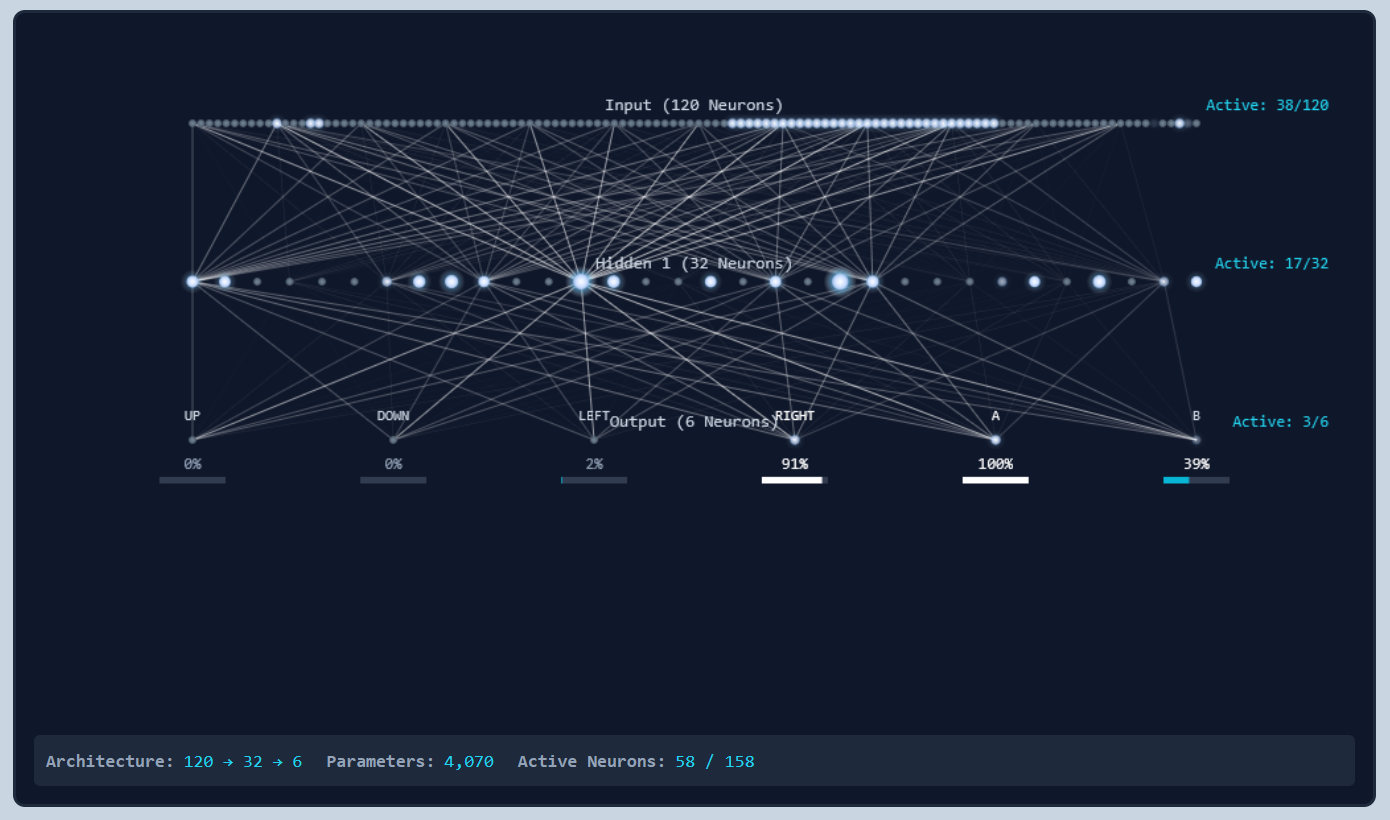
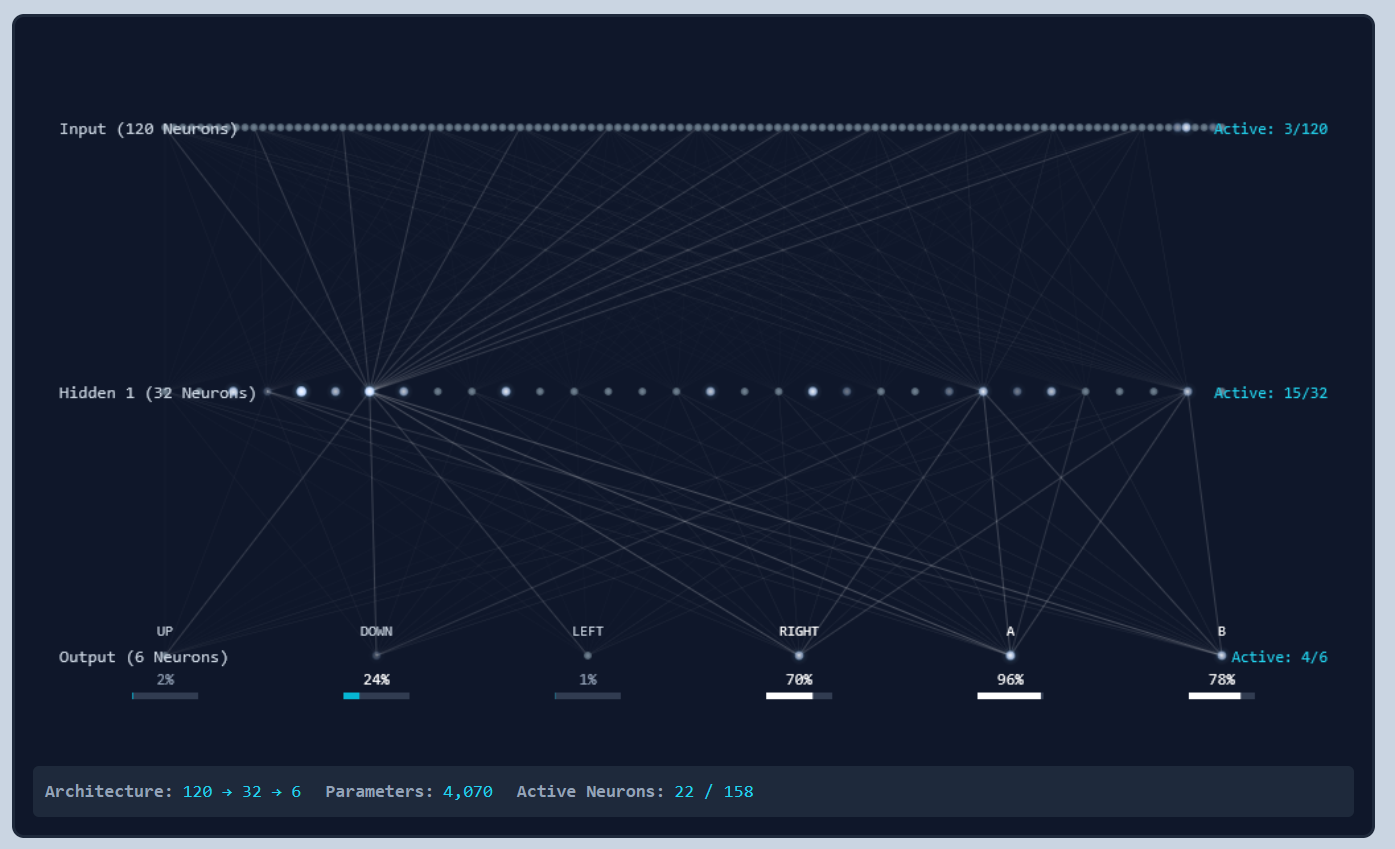
Seeing neurons

diff --git a/src/lib/components/NeuralNetworkViz.svelte b/src/lib/components/NeuralNetworkViz.svelte
@@ -17,16 +17,22 @@
 
 	// Layout constants - HORIZONTAL LAYOUT (rows not columns)
 	const CANVAS_WIDTH = 1000;
-	const LAYER_SPACING = 120; // Vertical spacing between rows
 	const NODE_RADIUS = 3;
 	const MAX_NODES_PER_LAYER = 150; // Show all nodes
-	const NEURONS_PER_PILL = 5; // Group neurons into pills (hidden layers only)
+	const NEURONS_PER_PILL = 5; // Group neurons into pills for performance
 
-	// Dynamic height based on number of layers (fluid layout)
+	// Dynamic layout calculations
 	const canvasHeight = $derived(
 		vizData?.layer_sizes?.length
-			? 70 + (vizData.layer_sizes.length * LAYER_SPACING) + 90 // Extra space for output labels/bars
-			: 400 // Default height for empty state
+			? Math.max(400, vizData.layer_sizes.length * 180) // Scale with number of layers
+			: 400
+	);
+
+	// Dynamic spacing based on number of layers
+	const layerSpacing = $derived(
+		vizData?.layer_sizes?.length
+			? (canvasHeight - 140) / Math.max(1, vizData.layer_sizes.length - 1) // Distribute evenly
+			: 120
 	);
 
 	// Color scheme
@@ -54,7 +60,7 @@
 
 	function startAnimation() {
 		function animate() {
-			pulsePhase = (pulsePhase + 0.01) % (Math.PI * 2); // Slower pulse
+			pulsePhase = (pulsePhase + 0.01) % (Math.PI * 2);
 			drawNetwork();
 			animationFrameId = requestAnimationFrame(animate);
 		}
@@ -74,42 +80,27 @@
 		const layers = vizData.layer_sizes;
 		const activations = vizData.activations || [];
 
-		// Debug: log activation data structure
-		if (activations.length > 0 && !window._loggedActivations) {
-			const outputAct = activations[layers.length - 1];
-			console.log('🔍 Activation data:', {
-				hasActivations: activations.length > 0,
-				numLayers: layers.length,
-				numActivations: activations.length,
-				outputLayerActivation: outputAct,
-				outputHasValues: !!outputAct?.values,
-				outputValuesType: typeof outputAct?.values,
-				outputValuesIsArray: Array.isArray(outputAct?.values),
-				outputValuesLength: outputAct?.values?.length,
-				outputValues: outputAct?.values,
-				firstValue: outputAct?.values?.[0],
-				allActivations: activations
-			});
-			window._loggedActivations = true;
-		}
+		// Calculate dynamic vertical spacing
+		const topPadding = 70;
+		const bottomPadding = 70;
+		const availableHeight = canvasHeight - topPadding - bottomPadding;
+		const spacing = layers.length > 1 ? availableHeight / (layers.length - 1) : 0;
 
-		// Calculate node positions for each layer - HORIZONTAL LAYOUT
+		// Calculate node positions for each layer - FLUID HORIZONTAL LAYOUT
 		const layerPositions = layers.map((size, layerIdx) => {
-			const y = 70 + layerIdx * LAYER_SPACING; // Vertical position (row)
+			// Dynamic vertical position - evenly distributed
+			const y = topPadding + (layerIdx * spacing);
 
-			// Determine if this is a hidden layer (for pill grouping)
-			const isHidden = layerIdx > 0 && layerIdx < layers.length - 1;
-
-			// Only use pills if hidden layer has more than MAX_NODES_PER_LAYER neurons
-			const usePills = isHidden && size > MAX_NODES_PER_LAYER;
+			// Use pills for any layer with more than 100 neurons (for performance)
+			const PILL_THRESHOLD = 100;
+			const usePills = size > PILL_THRESHOLD;
 			const pillSize = usePills ? NEURONS_PER_PILL : 1;
 			const numPills = Math.ceil(size / pillSize);
 			const displaySize = Math.min(numPills, MAX_NODES_PER_LAYER);
 
-			// Calculate horizontal spacing to fit all nodes/pills with padding
-			const paddingX = 120; // More space for labels
-			const paddingRight = 120; // More space for active count
-			const availableWidth = CANVAS_WIDTH - paddingX - paddingRight;
+			// Dynamic horizontal spacing - use 80% of canvas width
+			const paddingX = CANVAS_WIDTH * 0.1; // 10% padding on each side
+			const availableWidth = CANVAS_WIDTH * 0.8; // 80% usable width
 			const nodeSpacing = displaySize > 1 ? availableWidth / (displaySize - 1) : 0;
 			const startX = paddingX;
 
@@ -141,19 +132,6 @@
 					} else {
 						// Regular neuron activation
 						activation = activations[layerIdx]?.values?.[actualIdx] || 0;
-					}
-
-					// Debug output layer node creation
-					if (!window._loggedNodeCreation && layerIdx === layers.length - 1 && nodeIdx < 6) {
-						console.log(`🔍 Creating output node ${nodeIdx}:`, {
-							layerIdx,
-							nodeIdx,
-							actualIdx,
-							hasActivations: !!activations[layerIdx],
-							activationValue: activation,
-							valuesArray: activations[layerIdx]?.values
-						});
-						if (nodeIdx === 5) window._loggedNodeCreation = true;
 					}
 
 					return {
@@ -219,16 +197,16 @@
 				const activation = node.activation;
 				const isActive = activation > 0.1;
 
-				// Draw pills for hidden layers, circles for input/output
+				// Draw pills for layers with >100 neurons, circles otherwise
 				if (layer.usePills) {
 					// Pill dimensions
-					const pillWidth = 14; // Wider pills
+					const pillWidth = 14;
 					const pillHeight = NODE_RADIUS * 2;
 					const pulse = Math.sin(pulsePhase) * 0.5;
 					const height = isActive
 						? pillHeight + pulse + (activation * 0.5)
 						: pillHeight;
-					const cornerRadius = height / 2; // Fully rounded ends
+					const cornerRadius = height / 2;
 
 					if (isActive) {
 						// Outer glow for active pills
@@ -275,7 +253,7 @@
 					);
 					ctx.fill();
 				} else {
-					// Regular circular nodes for input/output layers
+					// Regular circular nodes for layers with <=100 neurons
 					const baseRadius = NODE_RADIUS;
 					const pulse = Math.sin(pulsePhase) * 0.5;
 					const radius = isActive
@@ -325,7 +303,7 @@
 				}
 			});
 
-			// Layer labels - centered above each row
+			// Layer labels - positioned dynamically above each row
 			ctx.fillStyle = COLORS.text;
 			ctx.font = '13px monospace';
 			ctx.textAlign = 'center';
@@ -333,7 +311,7 @@
 			const layerNames = ['Input', ...Array(layers.length - 2).fill(0).map((_, i) => `Hidden ${i + 1}`), 'Output'];
 			const label = layerNames[layerIdx];
 
-			// Show pill count for hidden layers, node count otherwise
+			// Show pill count for layers using pills, node count otherwise
 			let nodeCount;
 			if (layer.usePills) {
 				const numPills = Math.ceil(layer.size / layer.pillSize);
@@ -346,19 +324,20 @@
 					: `${layer.size} Neurons`;
 			}
 
-			// Draw label centered at top of canvas, above the layer row
-			ctx.fillText(`${label} (${nodeCount})`, CANVAS_WIDTH / 2, layer.y - 10);
+			// Draw label centered horizontally, above the layer row
+			const labelY = layer.y - 15; // Positioned above nodes
+			ctx.fillText(`${label} (${nodeCount})`, CANVAS_WIDTH / 2, labelY);
 
-			// Show activation stats if available - on the right side
+			// Show activation stats if available - on the right side, aligned with label
 			if (activations[layerIdx]) {
 				const act = activations[layerIdx];
 				ctx.textAlign = 'right';
 				ctx.font = '12px monospace';
-				ctx.fillStyle = '#22d3ee'; // Bright cyan for visibility
+				ctx.fillStyle = '#22d3ee';
 				ctx.fillText(
 					`Active: ${act.active_count}/${layer.size}`,
 					CANVAS_WIDTH - 20,
-					layer.y - 10
+					labelY
 				);
 			}
 		});
@@ -373,41 +352,9 @@
 
 			// Only show if output layer has 6 nodes (button output)
 			if (outputLayer.size === 6) {
-				// Debug output layer activations once
-				if (!window._loggedOutputActivations && activations.length > 0) {
-					console.log('🎮 Output layer activations:', {
-						layerIdx: layers.length - 1,
-						nodes: outputLayer.nodes.map((n, i) => ({
-							button: buttons[i],
-							activation: n.activation,
-							actualIdx: n.actualIdx
-						})),
-						rawActivationData: activations[layers.length - 1]
-					});
-					window._loggedOutputActivations = true;
-				}
-
 				outputLayer.nodes.forEach((node, idx) => {
 					if (idx < buttons.length) {
 						const activation = node.activation || 0;
-
-						// Debug log ALL button activation values
-						if (!window._loggedButtonActivation) {
-							console.log('🔍 Button activation debug:', {
-								buttonIndex: idx,
-								button: buttons[idx],
-								nodeActivation: node.activation,
-								actualIdx: node.actualIdx,
-								outputLayerIdx: layers.length - 1,
-								hasActivations: !!activations[layers.length - 1],
-								activationObject: activations[layers.length - 1],
-								allValues: activations[layers.length - 1]?.values,
-								valueAtIndex: activations[layers.length - 1]?.values?.[idx]
-							});
-							if (idx === buttons.length - 1) {
-								window._loggedButtonActivation = true;
-							}
-						}
 
 						// Button label above node
 						ctx.fillStyle = activation > 0.5 ? '#ffffff' : COLORS.text;

diff --git a/static/python/ml/rl/agent.py b/static/python/ml/rl/agent.py
@@ -17,7 +17,7 @@ from lib.nes.game_controller import GameController
 from lib.neural.neural_controller import SimpleNeuralController, NEATController, ConvNeuralController, ActionDecoder
 
 # Visualization update frequency (every N decisions)
-VIZ_UPDATE_FREQUENCY = 3
+VIZ_UPDATE_FREQUENCY = 4
 
 
 class PlayerAgent:
